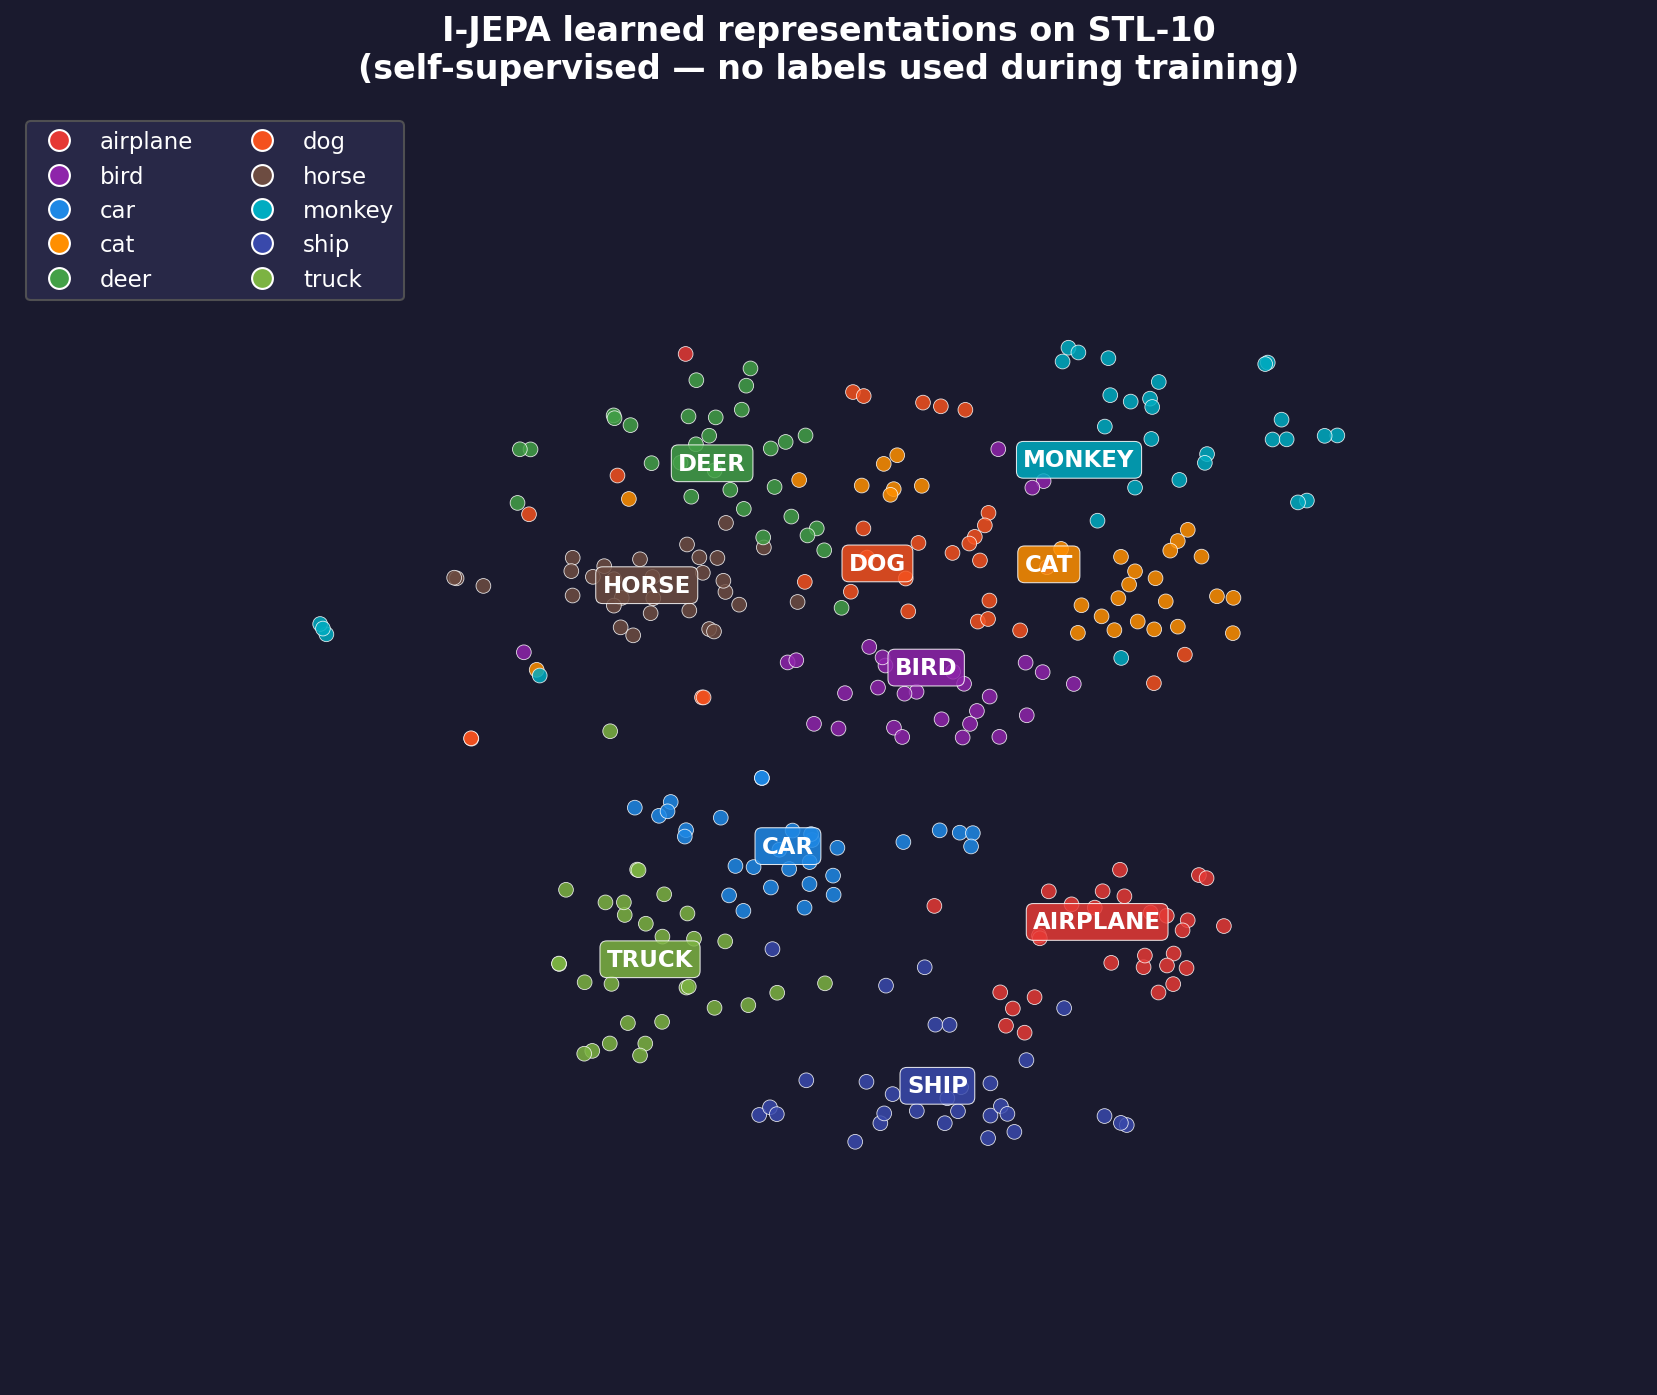
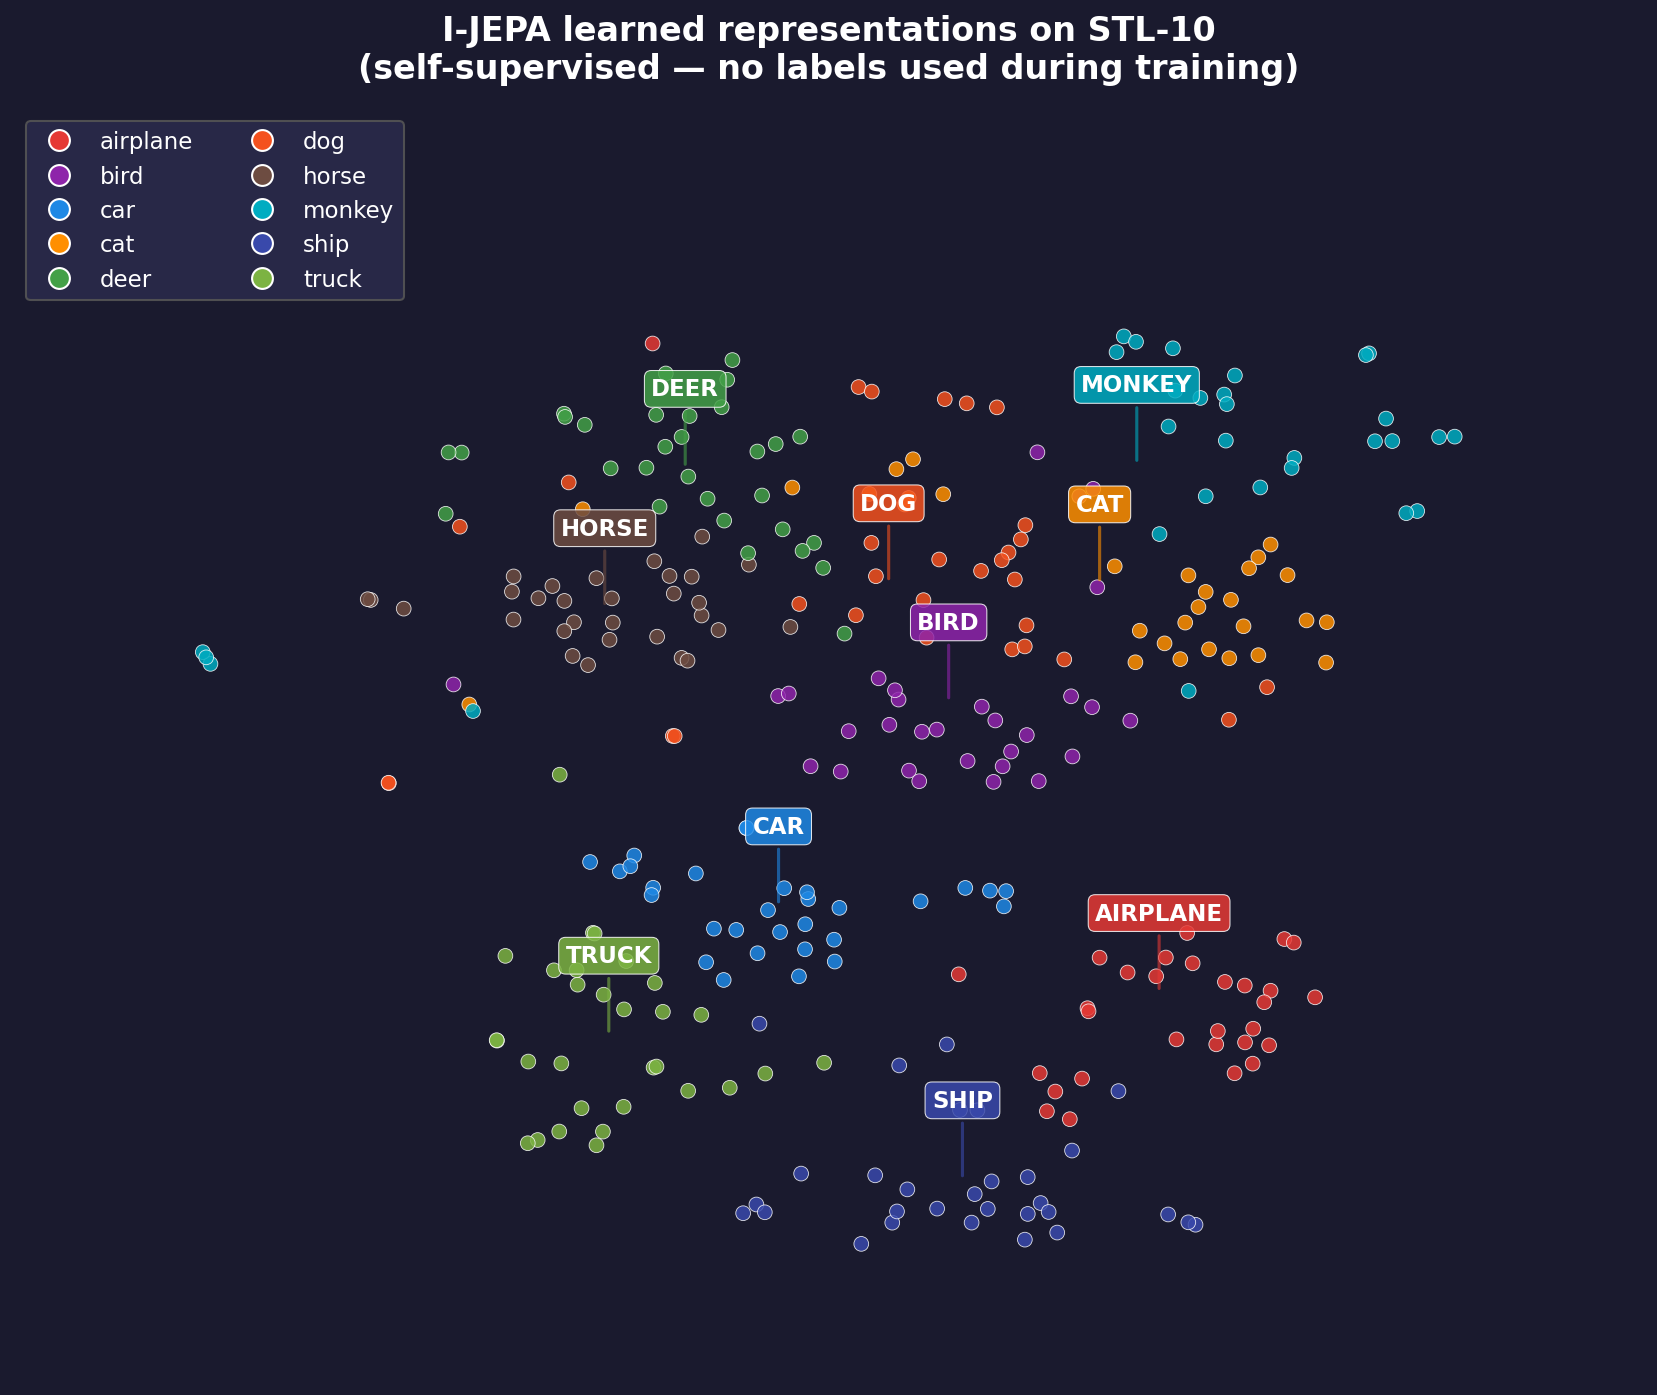
better labels etc.

diff --git a/demos/08_animated_tsne.py b/demos/08_animated_tsne.py
@@ -153,8 +153,8 @@ def create_animation(embedding, labels, raw_images):
         fontsize=18, fontweight="bold", color="white", pad=15,
     )
 
-    ax.set_xlim(-1.6, 1.6)
-    ax.set_ylim(-1.6, 1.6)
+    ax.set_xlim(-1.3, 1.3)
+    ax.set_ylim(-1.3, 1.3)
     ax.set_xticks([])
     ax.set_yticks([])
     for spine in ax.spines.values():
@@ -234,16 +234,20 @@ def plot_final_frame(embedding, labels):
     ax.scatter(final[:, 0], final[:, 1], c=colors, s=50, alpha=0.85,
                edgecolors="white", linewidths=0.4)
 
-    # Add class labels at cluster centroids
+    # Add class labels offset above each cluster centroid
     for cls_idx in range(10):
         mask = labels == cls_idx
         cx, cy = final[mask].mean(axis=0)
+        # Place label above cluster, connected by a short line
         ax.annotate(
             STL10_CLASSES[cls_idx].upper(),
-            (cx, cy), fontsize=11, fontweight="bold", color="white",
-            ha="center", va="center",
+            xy=(cx, cy), xytext=(cx, cy + 0.15),
+            fontsize=11, fontweight="bold", color="white",
+            ha="center", va="bottom",
             bbox=dict(boxstyle="round,pad=0.3", facecolor=CLASS_COLORS[cls_idx],
                       alpha=0.85, edgecolor="white", linewidth=0.5),
+            arrowprops=dict(arrowstyle="-", color=CLASS_COLORS[cls_idx],
+                            lw=1.5, alpha=0.6),
         )
 
     ax.set_title(
@@ -251,8 +255,8 @@ def plot_final_frame(embedding, labels):
         "(self-supervised — no labels used during training)",
         fontsize=16, fontweight="bold", color="white", pad=15,
     )
-    ax.set_xlim(-1.6, 1.6)
-    ax.set_ylim(-1.6, 1.6)
+    ax.set_xlim(-1.3, 1.3)
+    ax.set_ylim(-1.3, 1.5)  # extra room for labels above
     ax.set_xticks([])
     ax.set_yticks([])
     for spine in ax.spines.values():
@@ -303,16 +307,22 @@ def plot_thumbnail_tsne(embedding, labels, raw_images):
         )
         ax.add_artist(ab)
 
-    # Class labels at centroids
+    # Class labels offset below each cluster (away from thumbnails)
     for cls_idx in range(10):
         mask = labels == cls_idx
-        cx, cy = final[mask].mean(axis=0)
+        pts = final[mask]
+        cx, cy = pts.mean(axis=0)
+        # Place label below the lowest point in the cluster
+        cy_bottom = pts[:, 1].min()
         ax.annotate(
-            STL10_CLASSES[cls_idx],
-            (cx, cy - 0.18), fontsize=10, fontweight="bold", color="white",
+            STL10_CLASSES[cls_idx].upper(),
+            xy=(cx, cy), xytext=(cx, cy_bottom - 0.15),
+            fontsize=11, fontweight="bold", color="white",
             ha="center", va="top",
-            bbox=dict(boxstyle="round,pad=0.2", facecolor=CLASS_COLORS[cls_idx],
-                      alpha=0.9, edgecolor="none"),
+            bbox=dict(boxstyle="round,pad=0.25", facecolor=CLASS_COLORS[cls_idx],
+                      alpha=0.9, edgecolor="white", linewidth=0.5),
+            arrowprops=dict(arrowstyle="-", color=CLASS_COLORS[cls_idx],
+                            lw=1.5, alpha=0.5),
         )
 
     ax.set_title(
@@ -320,8 +330,8 @@ def plot_thumbnail_tsne(embedding, labels, raw_images):
         "(trained on ImageNet, never saw these categories)",
         fontsize=18, fontweight="bold", color="white", pad=15,
     )
-    ax.set_xlim(-1.7, 1.7)
-    ax.set_ylim(-1.7, 1.7)
+    ax.set_xlim(-1.4, 1.4)
+    ax.set_ylim(-1.6, 1.4)
     ax.set_xticks([])
     ax.set_yticks([])
     for spine in ax.spines.values():

diff --git a/demos/09_vjepa_video_gif.py b/demos/09_vjepa_video_gif.py
@@ -129,21 +129,22 @@ def create_single_video_gif(model, processor, all_frames, video_name, save_path)
     for cls_idx, name in model.config.id2label.items():
         label_to_idx[name] = cls_idx
 
-    # Create animation
-    fig = plt.figure(figsize=(14, 5))
+    # Create animation — video on top, bars below
+    fig = plt.figure(figsize=(14, 9))
     fig.patch.set_facecolor("#1A1A2E")
 
-    gs = fig.add_gridspec(1, 2, width_ratios=[1, 1.3], wspace=0.3)
+    gs = fig.add_gridspec(2, 1, height_ratios=[1.2, 1], hspace=0.4)
+    fig.subplots_adjust(left=0.30, right=0.95, top=0.93, bottom=0.08)
     ax_frame = fig.add_subplot(gs[0, 0])
-    ax_bars = fig.add_subplot(gs[0, 1])
+    ax_bars = fig.add_subplot(gs[1, 0])
 
     # Progress bar area
     progress_bg = plt.Rectangle(
-        (0.05, 0.04), 0.38, 0.03,
+        (0.1, 0.02), 0.8, 0.02,
         transform=fig.transFigure, facecolor="#333355", edgecolor="none", zorder=10,
     )
     progress_fill = plt.Rectangle(
-        (0.05, 0.04), 0.0, 0.03,
+        (0.1, 0.02), 0.0, 0.02,
         transform=fig.transFigure, facecolor="#4FC3F7", edgecolor="none", zorder=11,
     )
     fig.patches.extend([progress_bg, progress_fill])
@@ -239,8 +240,9 @@ def create_multi_video_gif(model, processor, videos_data, save_path):
         fixed = [p[0] for p in preds_list[-1][:3]]
         all_results[name] = (preds_list, probs_list, frames_list, fixed)
 
-    fig, axes = plt.subplots(2, n_vids, figsize=(6 * n_vids, 8),
-                              gridspec_kw={"height_ratios": [1, 1.2], "hspace": 0.35})
+    fig, axes = plt.subplots(2, n_vids, figsize=(7 * n_vids, 10),
+                              gridspec_kw={"height_ratios": [1, 1], "hspace": 0.5})
+    fig.subplots_adjust(left=0.12, right=0.97, top=0.92, bottom=0.06)
     fig.patch.set_facecolor("#1A1A2E")
 
     # Progress bar
@@ -281,7 +283,7 @@ def create_multi_video_gif(model, processor, videos_data, save_path):
             # Bottom row: fixed label positions
             ax = axes[1, col]
             ax.clear()
-            display_labels = [l[:30] for l in fixed_labels]
+            display_labels = [l[:40] for l in fixed_labels]
             probs = [probs_full[label_to_idx[l]] for l in fixed_labels]
 
             top_label = fixed_labels[np.argmax(probs)]
@@ -291,7 +293,7 @@ def create_multi_video_gif(model, processor, videos_data, save_path):
             bars = ax.barh(range(len(display_labels)), probs, color=bar_colors,
                            edgecolor="none", height=0.5)
             ax.set_yticks(range(len(display_labels)))
-            ax.set_yticklabels(display_labels, fontsize=9, color="white")
+            ax.set_yticklabels(display_labels, fontsize=10, color="white")
             ax.invert_yaxis()
             ax.set_xlim(0, 1.15)
             ax.set_facecolor("#1A1A2E")
